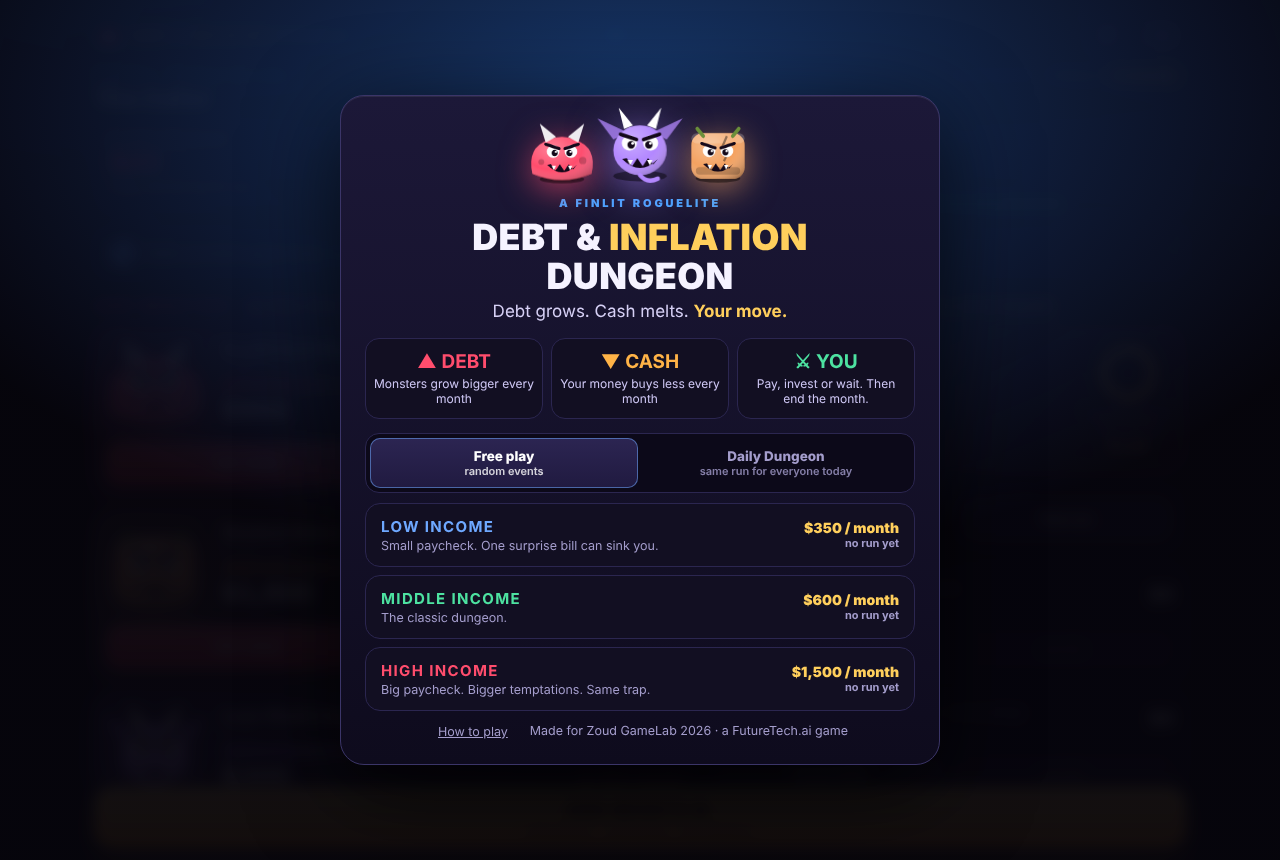
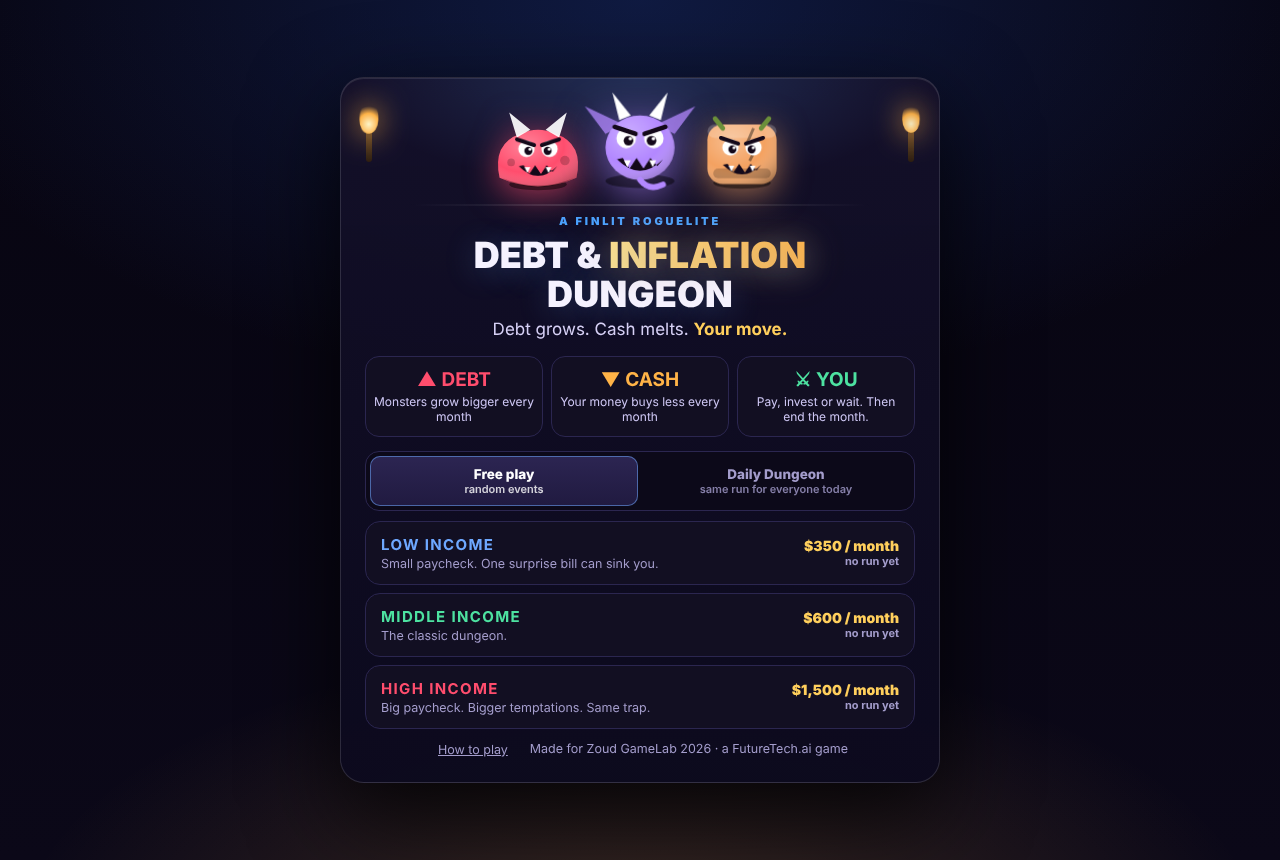
Visual upgrade: dungeon hall scene, torches, per-floor lighting, title polish
Claude-Session: https://claude.ai/code/session_018JD6s2syzimkdXhJeBHTZL

diff --git a/index.html b/index.html
@@ -56,6 +56,36 @@ button:focus-visible{outline:2px solid var(--accent);outline-offset:2px}
 .b-grn{background:#4de2a126;color:#8df0c5;border:1px solid #4de2a166}
 .b-blu{background:#6ea8ff22;color:#a9c8ff;border:1px solid #6ea8ff66}
 /* forecast */
+
+#arena{margin:0 0 12px}
+.hall{position:relative;height:204px;border-radius:20px;overflow:hidden;border:1px solid #ffffff1c;
+  background:radial-gradient(120% 90% at 50% 0%,color-mix(in srgb,var(--glow) 55%,transparent),transparent 62%),
+  repeating-linear-gradient(90deg,#ffffff06 0 2px,transparent 2px 86px),linear-gradient(#0d0a1c,#080614);
+  box-shadow:inset 0 0 60px #000a,0 14px 40px #0008;display:flex;align-items:flex-end;justify-content:space-between;padding:0 54px 16px;gap:12px}
+.hall::before{content:"";position:absolute;inset:0;pointer-events:none;background:
+  radial-gradient(60% 120% at 50% 130%,color-mix(in srgb,var(--accent) 22%,transparent),transparent 70%),
+  linear-gradient(90deg,#000b,transparent 22%,transparent 78%,#000b)}
+.hall::after{content:"";position:absolute;left:0;right:0;top:0;height:34px;pointer-events:none;background:radial-gradient(40px 34px at 40px 0,transparent 98%,#0000),repeating-radial-gradient(60px 46px at 50% -14px,#05040c 0 44px,transparent 45px 70px);opacity:.9}
+.floorline{position:absolute;left:0;right:0;bottom:0;height:20px;background:linear-gradient(#1b1630,#0a0814);border-top:1px solid #ffffff14}
+.tch{position:absolute;top:42px;width:20px;height:58px;z-index:2}
+.tch.l{left:16px}.tch.r{right:16px}
+.tch::before{content:"";position:absolute;left:7px;top:22px;width:6px;height:36px;border-radius:3px;background:linear-gradient(#6b4a2a,#2c1d10)}
+.tch u{position:absolute;left:1px;top:0;width:18px;height:28px;border-radius:50% 50% 45% 45%;background:radial-gradient(circle at 50% 70%,#fff6c9,#ffb347 45%,#ff4d6d00 75%);filter:blur(.5px) drop-shadow(0 0 14px #ffb347);animation:flame .7s ease-in-out infinite alternate}
+.tch.r u{animation-delay:.25s}
+@keyframes flame{from{transform:scale(.92,1) rotate(-3deg);opacity:.9}to{transform:scale(1.06,1.12) rotate(3deg);opacity:1}}
+.knw{position:relative;z-index:1;display:flex;align-items:flex-end;gap:10px;flex:none}
+.knw .kn{width:104px;height:126px;animation:breathe 3s ease-in-out infinite;transform-origin:50% 95%;filter:drop-shadow(0 6px 14px #5ea3ff55)}
+.stash{display:flex;flex-direction:column-reverse;align-items:center;gap:1px;position:relative;min-width:58px;padding-bottom:2px}
+.stash i{width:34px;height:7px;border-radius:50%;background:linear-gradient(#ffe08a,#e0a21d);box-shadow:0 1px 0 #7a5208,0 0 10px #ffcf5c33;transform:translateX(calc(((var(--i) * 7) % 5 - 2) * 1.4px))}
+.stash span{position:absolute;bottom:-3px;left:50%;transform:translate(-50%,100%);font-size:11px;font-weight:800;color:var(--gold);white-space:nowrap;display:none}
+.horde{position:relative;z-index:1;display:flex;align-items:flex-end;justify-content:flex-end;gap:2px;flex:1;min-width:0}
+.am{display:flex;flex-direction:column;align-items:center;flex:0 1 auto;min-width:0}
+.am .fig{width:92px;height:92px;scale:var(--s);transform-origin:50% 100%;margin-bottom:4px;animation-duration:calc(2.2s + var(--s) * .6s)}
+.am b{font-size:11.5px;font-weight:800;color:#fff;background:#0009;border:1px solid color-mix(in srgb,var(--c) 60%,transparent);border-radius:99px;padding:1px 8px;margin-top:2px}
+.win{align-self:center;margin:0 auto;text-align:center;font-weight:900;letter-spacing:.2em;font-size:18px;color:var(--gold);text-shadow:0 0 24px #ffcf5c}
+.win small{display:block;letter-spacing:.04em;font-weight:600;font-size:12px;color:var(--mute);text-shadow:none;margin-top:4px}
+@media(max-width:700px){.hall{height:148px;padding:0 34px 14px}.knw .kn{width:62px;height:76px}.stash{min-width:40px}.stash i{width:26px}.am .fig{width:52px;height:52px}.am b{font-size:10px;padding:1px 5px}.tch{display:none}.win{font-size:14px}}
+@media(prefers-reduced-motion:reduce){.tch u,.knw .kn,.am .fig{animation:none}}
 #forecast{display:grid;grid-template-columns:repeat(3,1fr);gap:8px;margin-bottom:10px}
 .fc{border-radius:16px;padding:10px 14px;border:1px solid var(--line);background:linear-gradient(180deg,#1b1735cc,#110e22cc)}
 .fc small{display:block;color:var(--mute);font-size:10.5px;letter-spacing:.12em;font-weight:800}
@@ -80,6 +110,8 @@ main{display:grid;grid-template-columns:1.25fr 1fr;gap:14px}
 #monsters{display:flex;flex-direction:column;gap:11px}
 .mon{position:relative;display:grid;grid-template-columns:104px 1fr;gap:6px 12px;align-items:center;padding:11px;border-radius:18px;border:1px solid color-mix(in srgb,var(--c) 50%,#2a2548);background:linear-gradient(135deg,color-mix(in srgb,var(--c) 15%,#150f27),#0f0c1d);box-shadow:0 0 30px color-mix(in srgb,var(--c) 15%,transparent),inset 0 1px 0 #ffffff12}
 .key{position:absolute;top:8px;right:10px;font-size:10.5px;font-weight:900;color:var(--mute);border:1px solid var(--line);border-radius:6px;padding:1px 6px;background:#0d0a1a}
+.mon,.fc,#wallet>div{box-shadow:inset 0 1px 0 #ffffff14,inset 0 0 0 1px #ffffff05}
+h1 em{background:linear-gradient(90deg,#ffe08a,#ffb347);-webkit-background-clip:text;background-clip:text;-webkit-text-fill-color:transparent;font-style:normal;filter:drop-shadow(0 0 18px #ffb34766)}
 .fig{width:98px;height:98px;display:grid;place-items:center;transform-origin:50% 90%;animation:breathe 2.6s ease-in-out infinite;filter:drop-shadow(0 8px 16px color-mix(in srgb,var(--c) 60%,transparent))}
 .fig svg{width:100%;height:100%;overflow:visible}
 @keyframes breathe{0%,100%{translate:0 0}50%{translate:0 -4px}}
@@ -166,6 +198,16 @@ main{display:grid;grid-template-columns:1.25fr 1fr;gap:14px}
 .kick{font-size:11px;letter-spacing:.26em;font-weight:900;color:var(--accent);margin-bottom:8px}
 .peek{display:flex;justify-content:center;gap:4px;margin:-4px 0 6px}
 .peek .fig{width:74px;height:74px;animation-duration:3s}
+.ov:has(.card.hero){background:radial-gradient(90% 70% at 50% 0%,#1d3b8a66,transparent 65%),radial-gradient(70% 50% at 50% 110%,#ffb34733,transparent 70%),linear-gradient(#070511,#0b0818);backdrop-filter:none}
+.card.hero{position:relative;overflow:hidden;background:linear-gradient(#141029e6,#0c0a1ef2);border-color:#ffffff22;box-shadow:0 30px 90px #000c,inset 0 1px 0 #ffffff1a}
+.card.hero .tch{top:26px}.card.hero .tch.l{left:18px}.card.hero .tch.r{right:18px}
+.card.hero::before{content:"";position:absolute;left:0;right:0;top:0;height:160px;pointer-events:none;background:radial-gradient(70% 100% at 50% 0%,#5ea3ff33,transparent 70%)}
+.peek{position:relative;gap:6px;padding:4px 0 10px}.peek .fig{width:96px;height:96px}
+.peek::after{content:"";position:absolute;left:8%;right:8%;bottom:2px;height:2px;background:linear-gradient(90deg,transparent,#ffffff30,transparent)}
+.hero h1{font-size:46px;letter-spacing:.005em;text-shadow:0 4px 30px #5ea3ff44}
+.hero h1 em{display:inline-block}
+@media(max-width:700px){.hero h1{font-size:32px}.peek .fig{width:78px;height:78px}.card.hero .tch{display:none}}
+
 .peek .fig:nth-child(2){animation-delay:-.8s;transform:scale(1.2)}.peek .fig:nth-child(3){animation-delay:-1.6s}
 .hero h1{text-align:center;font-size:36px}
 .hero .tg{text-align:center;font-size:17px;color:#d6d0f5}
@@ -279,6 +321,7 @@ kbd{font:700 12px ui-monospace,Menlo,Consolas,monospace;padding:1px 6px;border-r
     <div class="hudb"><button class="ib" id="help" aria-label="How to play">?</button><button class="ib" id="mute" aria-label="Toggle sound">♪ On</button></div>
   </div>
   <div id="floor"></div>
+  <div id="arena" aria-hidden="true"></div>
   <div id="forecast"></div>
   <div id="coach" class="hide"></div>
   <main>
@@ -486,6 +529,17 @@ function animateNums(){
 
 /* ---------- art ---------- */
 const K=(tag,a)=>`<${tag} ${a} fill="var(--c)"/><${tag} ${a} fill="url(#shade)"/>`;
+const KNIGHT=`<svg viewBox="0 0 100 120" aria-hidden="true"><ellipse cx="50" cy="112" rx="30" ry="6" fill="#0008"/><path d="M26 56 L26 100 Q50 116 74 100 L74 56Z" fill="#4a5a86"/><path d="M26 56 L74 56 L74 66 L26 66Z" fill="#6b7fb5"/><path d="M50 18 L28 40 L28 62 Q50 72 72 62 L72 40Z" fill="#8fa2d6"/><path d="M50 18 L28 40 L28 62 Q50 72 72 62 L72 40Z" fill="url(#shade)"/><rect x="34" y="42" width="32" height="8" rx="3" fill="#0b1022"/><path d="M50 18 Q60 0 82 8 Q66 12 60 26Z" fill="#ffcf5c"/><path d="M8 66 L30 66 L30 94 Q19 106 8 94Z" fill="#ffcf5c"/><path d="M8 66 L30 66 L30 94 Q19 106 8 94Z" fill="url(#shade)"/><path d="M19 72 L19 94" stroke="#a9741a" stroke-width="3"/><path d="M13 82 L25 82" stroke="#a9741a" stroke-width="3"/></svg>`;
+function arenaHTML(){
+  const sal=T().salary,coins=Math.max(0,Math.min(12,Math.ceil(S.cash/(sal*.18))));
+  const stack=Array.from({length:coins},(_,i)=>`<i style="--i:${i}"></i>`).join("");
+  const mons=S.mons.map(m=>{const sc=(0.7+0.55*Math.min(m.debt/m.ref,2.2)).toFixed(2);
+    return `<div class="am" style="--c:${m.color};--s:${sc}"><div class="fig">${monsterSVG(m.kind,m.id)}</div><b>${fmt(m.debt)}</b></div>`}).join("");
+  return `<div class="hall"><div class="tch l"><u></u></div><div class="tch r"><u></u></div>
+    <div class="knw"><div class="kn">${KNIGHT}</div><div class="stash" title="cash">${stack}<span>${fmt(S.cash)}</span></div></div>
+    <div class="horde">${mons||'<div class="win">ALL DEBT SLAIN<small>now guard your cash from inflation</small></div>'}</div>
+    <div class="floorline"></div></div>`;
+}
 function monsterSVG(kind,n){
   const d=((n||0)%5)*.7;
   const eyes=`<g class="eyes" style="animation-delay:${d}s"><circle cx="38" cy="50" r="8.5" fill="#fff"/><circle cx="62" cy="50" r="8.5" fill="#fff"/><circle cx="40" cy="52" r="4.2" fill="#14091a"/><circle cx="60" cy="52" r="4.2" fill="#14091a"/><circle cx="41.6" cy="50.2" r="1.5" fill="#fff"/><circle cx="61.6" cy="50.2" r="1.5" fill="#fff"/></g><path d="M28 40 L46 46 M72 40 L54 46" stroke="#14091a" stroke-width="4" stroke-linecap="round"/>`;
@@ -559,6 +613,7 @@ function render(){
   for(let i=1;i<=LAST;i++){const p=document.createElement("div");p.className="pip f"+floorOf(i)+(i<S.month?" done":"")+(i===S.month?" now":"");tr.appendChild(p)}
   $("#floor").innerHTML=`<h1><small>FLOOR ${fi+1} · ${T().label}${S.mode==="daily"?" · DAILY "+S.label:""}</small>${fl.name}</h1><span class="rt">Month <b>${S.month}</b> of ${LAST} &nbsp;·&nbsp; Inflation <span class="badge b-amb">${pct(fl.inf)}/month</span></span>`;
   const f=forecast(),net=S.cash/shockSize(),nl=net<1?"lo":net<2?"md":"hi";
+  $("#arena").innerHTML=arenaHTML();
   $("#forecast").innerHTML=
    `<div class="fc up"><small>▲ DEBT GROWS BY</small><strong data-num="fd" data-v="${f.di}" data-f="usd">${fmt(f.di)}</strong><em>if you end the month now</em></div>
     <div class="fc dn"><small>▼ CASH MELTS BY</small><strong data-num="fc" data-v="${f.cl}" data-f="usd">${fmt(f.cl)}</strong><em>if you end the month now</em></div>
@@ -823,7 +878,7 @@ function shareResult(){
 function showTitle(){
   const ov=$("#ov");
   const best=k=>{const b=JSON.parse(store.get("best_"+k)||"null");return b?`<small>best ${"★".repeat(b.stars)||"☠"} ${fmt(b.nw)}</small>`:"<small>no run yet</small>"};
-  ov.innerHTML=`<div class="card hero"><div class="peek"><div class="fig" style="--c:#ff4d6d">${monsterSVG("wyrm",1)}</div><div class="fig" style="--c:#b388ff">${monsterSVG("imp",2)}</div><div class="fig" style="--c:#f4a261">${monsterSVG("golem",3)}</div></div>
+  ov.innerHTML=`<div class="card hero"><div class="tch l"><u></u></div><div class="tch r"><u></u></div><div class="peek"><div class="fig" style="--c:#ff4d6d">${monsterSVG("wyrm",1)}</div><div class="fig" style="--c:#b388ff">${monsterSVG("imp",2)}</div><div class="fig" style="--c:#f4a261">${monsterSVG("golem",3)}</div></div>
     <div class="kick" style="text-align:center">A FINLIT ROGUELITE</div>
     <h1>DEBT &amp; <em>INFLATION</em><br>DUNGEON</h1>
     <p class="tg">Debt grows. Cash melts. <b>Your move.</b></p>

diff --git a/README.md b/README.md
@@ -7,6 +7,7 @@ A financial-literacy roguelite you can learn in ten seconds and finish in five m
 Built for **Zoud GameLab 2026** (theme: *Make FinLit Fun*).
 
 ![Title screen](docs/screens/desk-1-title.png)
+![The dungeon hall](docs/screens/desk-2-game.png)
 
 ## Play
 
